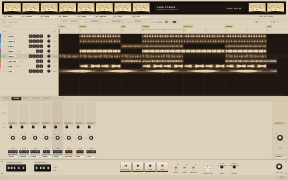
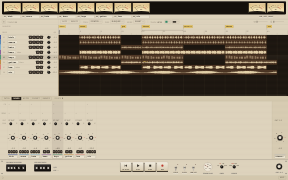
fix(daw): no names in the themes — neither the song's nor the program's
His rule, said again: a theme carries no project name and no product name. The console's plate goes (its maker,
model and the song's name); the cassette's label is left blank, ruled, and the deck has no maker's name or model, its
switches stand in the middle of its height; the score has no title, where the song is stands where a title would;
bauhaus starts its column with where the song is; the blueprint's title block holds the bar, the time, the tempo, the
metre, the key and the grid in place of the project and "drawn by"; the terminal has no name block and no song's
name, the open tab is shown inverse. Thumbnails and the guide's two pictures taken again.

diff --git a/Daw/ui/skin-poster.js b/Daw/ui/skin-poster.js
@@ -1,5 +1,6 @@
 /* ── poster: a composition of primary colours (design/themes draft 2, sheet 4: bauhaus) ──
-   Down the left a column that holds the transport as a poster would: where the song is in large figures, play a red
+   Down the left a column that holds the transport as a poster would (no name at its head: neither the song's nor the
+   program's, his rule): where the song is in large figures, play a red
    disc, stop a black square, record a red ring, the tempo a yellow disc, the metre a blue square, the cycle a yellow
    triangle, the out a ring filled as loud as the mix. At the foot a black band with the room's settings in it. A track
    its number large in its colour, its name, its buttons shapes (a square to mute, a circle to solo, a triangle to record);
@@ -22,21 +23,21 @@ const bhArc = (cx, cy, r, f) => { f = clamp(f, 0, .9999); const a = f * 2 * Math
 
 /* the column down the left (its x counted from the column's own edge: the room starts where it ends) */
 SKINS.left.poster = () => {
-  const CW = SKIN_BANDS.poster[2], p = curPos(), [bar, rest] = bhSplit(p), o = -CW
-  let s = R(0, 0, CW, H, { fill: K1 }) + R(CW - 3, 0, 3, H, { fill: BH.black })
-  s += T(20, 40, 'slur', { size: 28, w: 700 }) + T(22, 53, 'S T U D I O', { size: 7, w: 600, x: ' xml:space="preserve"' })
+  const CW = SKIN_BANDS.poster[2], p = curPos(), [bar, rest] = bhSplit(p), o = -CW, up = 40      // (up: the composition starts at the column's head)
+  const ground = R(0, 0, CW, H, { fill: K1 }) + R(CW - 3, 0, 3, H, { fill: BH.black })
+  let s = ''
   BHX.rest = 18 + tw(bar, 64, 700) + 2
   s += T(18, 132, bar, { size: 64, w: 700, x: ' id="bh-bar"' }) + T(BHX.rest, 132, rest, { size: 22, w: 600, c: BH.red, x: ' id="bh-rest"' }) + T(20, 154, clock(p), { size: 14, w: 500, x: ' id="bh-time"' }) + hit(14, 70, 170, 90, 'pos')
-  SKV.field.pos = { x: o + 18, y: 84, w: 150, h: 52 }
+  SKV.field.pos = { x: o + 18, y: 84 - up, w: 150, h: 52 }
   const play = S.playing && !S.rec
   s += Cc(42, 200, 22, { fill: BH.red }) + (play ? R(34, 190, 6, 20, { fill: BH.paper }) + R(45, 190, 6, 20, { fill: BH.paper }) : P('M35 189L35 211L53 200Z', { fill: BH.paper })) + hit(18, 176, 48, 48, 'play')
   s += R(78, 184, 32, 32, { fill: BH.black }) + R(88, 194, 12, 12, { fill: BH.paper }) + hit(74, 180, 40, 40, 'stop')
   s += (S.rec ? Cc(143, 200, 15, { fill: BH.red }) : Cc(143, 200, 13, { stroke: BH.red, sw: 4.5 })) + hit(124, 181, 38, 38, 'rec')
   s += R(18, 238, 2.5, 16, { fill: BH.black }) + P('M33 238L33 254L21 246Z', { fill: BH.black }) + T(40, 250, 'to the start', { size: 10 }) + hit(14, 234, 110, 24, 'tostart')
   s += Cc(42, 296, 22, { fill: BH.yellow }) + T(42, 301, String(Math.round(S.tempo * 100) / 100), { size: S.tempo >= 100 ? 14 : 17, w: 700, anchor: 'middle' }) + T(42, 312, 'B P M', { size: 5.5, w: 600, anchor: 'middle', x: ' xml:space="preserve"' }) + hit(18, 272, 48, 48, 'tempo')
-  SKV.field.tempo = { x: o + 14, y: 286, w: 60, h: 20 }
+  SKV.field.tempo = { x: o + 14, y: 286 - up, w: 60, h: 20 }
   s += R(78, 280, 32, 32, { fill: BH.blue }) + T(94, 300, meterName(), { size: 11, w: 600, c: BH.paper, anchor: 'middle' }) + hit(74, 276, 40, 40, 'meter')
-  SKV.field.meter = { x: o + 78, y: 280, w: 32, h: 32 }
+  SKV.field.meter = { x: o + 78, y: 280 - up, w: 32, h: 32 }
   const c = S.cycle
   s += P('M124 312L139 282L154 312Z', c.on ? { fill: BH.yellow } : { stroke: BH.yellow, sw: 3, x: ' stroke-linejoin="round"' }) + hit(120, 276, 40, 40, 'loop')
   s += T(20, 344, 'cycle', { size: 10, w: 600 }) + T(60, 344, c.on ? `bars ${Math.round(c.a + 1)} to ${Math.round(c.b)}` : 'off', { size: 10, a: .6 }) + hit(14, 332, 170, 16, 'loop')
@@ -44,13 +45,13 @@ SKINS.left.poster = () => {
   s += ring(364, !!S.click, `click ${S.click ? 'on' : 'off'}`, 'click') + ring(384, !!S.lowLat, `low latency ${S.lowLat ? 'on' : 'off'}`, 'lowlat')
   /* the out: a ring as loud as the mix, its level in the middle */
   if (H > 600) {
-    const mx = 98, my = Math.max(500, Math.min(540, H - 130))
+    const mx = 98, my = Math.max(500, Math.min(540, H - 130)) + up / 2
     BHX.donut = [mx, my]
     s += P(`M8 ${my - 110}L188 ${my + 100}`, { stroke: BH.black, sw: 2 }) + Cc(mx, my, 66, { fill: BH.blue }) + P('', { fill: BH.black, x: ' id="bh-donut"' })
     s += Cc(mx, my, 38, { fill: BH.paper }) + T(mx, my + 4, fmtDb(S.master), { size: 17, w: 700, anchor: 'middle' }) + T(mx, my + 16, 'O U T', { size: 6, w: 600, anchor: 'middle', x: ' xml:space="preserve"' }) + Cc(168, my - 88, 10, { fill: BH.red })
     s += hit(mx - 40, my - 40, 80, 80, 'master', '', 'ns-resize')
   } else BHX.donut = null
-  return G(s, `translate(${o} 0)`)
+  return G(ground + G(s, `translate(0 ${-up})`), `translate(${o} 0)`)
 }
 /* the foot: a black band, the room's settings in it */
 SKINS.foot.poster = y0 => {

diff --git a/Daw/ui/skin-cassette.js b/Daw/ui/skin-cassette.js
@@ -1,6 +1,7 @@
 /* ── cassette: a tape deck of the eighties (design/themes draft 2, sheet 2) ──
    Over the room the deck: the cassette in its window (its reels turn as the song goes, the tape passes from one to the
-   other), an LCD with seven-segment figures, six piano keys, the maker's name and its switches as pills with lights;
+   other), an LCD with seven-segment figures, six piano keys, its switches as pills with lights (no name on it: neither the
+   song's nor the program's, his rule);
    under it the stripes. At its foot the out, lit as a deck's display is. The heads at the right, each a cassette's
    spine: its colour, its number, its name typed, a row of lights, pills for its buttons. The markers a J-card; the
    cycle a stripe; the mixer a slider and a column of lights to a strip. The deck's labels are set in the room's face,
@@ -85,8 +86,7 @@ SKINS.top.cassette = () => {
   s += R(wx - 2, wy - 2, ww + 4, wh + 4, { rx: 6, fill: '#BFB197' }) + R(wx, wy, ww, wh, { rx: 5, fill: 'url(#cs-win)' })
   s += R(kx, ky, kw, kh, { rx: 4, fill: '#2A2622', stroke: '#4A423B', sw: .7 }) + R(kx + 7, ky + 5, kw - 14, kh - 22, { rx: 2.5, fill: '#F2EADB' })
   ;[CS.orange, CS.amber, CS.teal].forEach((c, i) => { s += R(kx + 7, ky + 27 + i * 3.4, kw - 14, 3, { fill: c }) })
-  const name = typeof PROJ === 'object' && PROJ.name ? PROJ.name : 'untitled'
-  s += T(kx + 13, ky + 17, fit(asGiven(name), kw - 70, 10, 700), { size: 10, w: 700, c: '#2A2420' }) + csTx(kx + kw - 13, ky + 16, 'SIDE A', { anchor: 'end', c: CS.orange, size: 6.6 })
+  s += R(kx + 13, ky + 12, kw - 70, .7, { fill: '#2A2420', fa: .25 }) + R(kx + 13, ky + 19, kw - 70, .7, { fill: '#2A2420', fa: .25 }) + csTx(kx + kw - 13, ky + 16, 'SIDE A', { anchor: 'end', c: CS.orange, size: 6.6 })      // (the label left blank, ruled)
   const hy = ky + kh - 13
   CSX.reels = [kx + 57, kx + kw - 57, hy]
   s += R(kx + 44, hy - 12, kw - 88, 22, { rx: 11, fill: '#1A1512' }) + G(csReel(kx + 57, hy, 'cs-rl') + csReel(kx + kw - 57, hy, 'cs-rr'), '', ' clip-path="url(#cs-reelwin)"') + `<clipPath id="cs-reelwin"><rect x="${kx + 44}" y="${hy - 12}" width="${kw - 88}" height="22" rx="11"/></clipPath>`
@@ -108,15 +108,14 @@ SKINS.top.cassette = () => {
     s += t === 'REC' ? Cc(gx, gy, 3, { fill: c }) : t === 'REW' ? P(`M${gx} ${gy - 4}l-6 4l6 4zM${gx + 6} ${gy - 4}l-6 4l6 4z`, { fill: c }) : t === 'PLAY' ? P(`M${gx - 3} ${gy - 4.5}l7.5 4.5l-7.5 4.5z`, { fill: c }) : t === 'F.F' ? P(`M${gx - 6} ${gy - 4}l6 4l-6 4zM${gx} ${gy - 4}l6 4l-6 4z`, { fill: c }) : t === 'STOP' ? R(gx - 3, gy - 3, 6, 6, { fill: c }) : R(gx - 4, gy - 4, 2.6, 8, { fill: c }) + R(gx + 1.4, gy - 4, 2.6, 8, { fill: c })
     s += csTx(gx, y + 50, t, { size: 5.8, c, anchor: 'middle', ls: .5, a: .85 }) + hit(x, 16, bw, 66, a)
   })
-  /* the maker's name; the switches */
+  /* the switches */
   const kEnd = bx0 + 6 * (bw + 3), rx = Math.max(kEnd + 20, W - 330)
-  if (W - kEnd > 240) s += csTx(W - 20, 34, 'SLUR STUDIO', { size: 13, c: CS.dark, ls: 2.4, anchor: 'end' }) + csTx(W - 20, 48, 'ST-8 STEREO CASSETTE DECK', { size: 6.2, anchor: 'end' })
   const pills = [['CYCLE', S.cycle.on, CS.amber, 'loop', 64], ['CLICK', !!S.click, CS.amber, 'click', 60], [toolWord(S.tool).toUpperCase(), true, CS.teal, 'toolmenu', 72], [`GRID ${S.grid}`, null, null, 'grid', 72]]
   let px = rx
-  for (const [t, on, col, a, w] of pills) { if (px + w > W - 16) break; s += csBtn(px, 66, w, 13, t, on, col, a); if (a === 'grid') SKV.field.grid = { x: px, y: 66, w, h: 13 }; px += w + 4 }
+  for (const [t, on, col, a, w] of pills) { if (px + w > W - 16) break; s += csBtn(px, 38, w, 13, t, on, col, a); if (a === 'grid') SKV.field.grid = { x: px, y: 38, w, h: 13 }; px += w + 4 }
   const nw = `NUDGE ${S.nudge}`.toUpperCase(), ow = `OUT ${fmtDb(S.master)} DB`
-  s += csTx(rx, 96, nw, { size: 6.2 }) + hit(rx - 3, 86, 90, 14, 'nudge') + csTx(rx + 100, 96, ow, { size: 6.2 }) + hit(rx + 97, 86, 90, 14, 'master', '', 'ns-resize')
-  SKV.field.nudge = { x: rx - 3, y: 86, w: 90, h: 14 }
+  s += csTx(rx, 70, nw, { size: 6.2 }) + hit(rx - 3, 60, 90, 14, 'nudge') + csTx(rx + 100, 70, ow, { size: 6.2 }) + hit(rx + 97, 60, 90, 14, 'master', '', 'ns-resize')
+  SKV.field.nudge = { x: rx - 3, y: 60, w: 90, h: 14 }
   /* the stripes */
   ;[CS.orange, CS.amber, CS.teal, CS.navy].forEach((c, i) => { s += R(0, DH + i * 3, W, 3, { fill: c }) })
   return s

diff --git a/Daw/ui/skin-blueprint.js b/Daw/ui/skin-blueprint.js
@@ -38,11 +38,10 @@ SKINS.foot.blueprint = y0 => {
   const bw = 430, bh = 92, bx0 = W - 26 - bw, by0 = y0 + 10
   s += R(bx0, by0, bw, bh, { fill: K2, fa: .6 }) + R(bx0 + .5, by0 + .5, bw - 1, bh - 1, { stroke: INK, sw: 1.2 })
   const cell = (x, y, w, h, k, v, big, a, id) => R(x + .5, y + .5, w - 1, h - 1, { stroke: INK, sw: .6, sa: .8 }) + T(x + 5, y + 9, k, { size: 5.8, a: .65 }) + T(x + 5, y + h - 6, v, { size: big ? 12 : 9, w: big ? 600 : 500, x: id ? ` id="${id}"` : '' }) + (a ? hit(x, y, w, h, a) : '')
-  const name = typeof PROJ === 'object' && PROJ.name ? PROJ.name : ''
-  s += cell(bx0, by0, 215, 30, 'project', asGiven(name.toUpperCase()), true) + cell(bx0 + 215, by0, 108, 30, 'drawn by', 'slur studio') + cell(bx0 + 323, by0, 107, 30, 'key', S.key ? asGiven(S.key.toUpperCase()) : '—', false, 'key')
-  const p = curPos()
-  s += cell(bx0, by0 + 30, 108, 30, 'bar', readout(p), true, 'pos', 'bp-bar') + cell(bx0 + 108, by0 + 30, 107, 30, 'time', clock(p), true, null, 'bp-time') + cell(bx0 + 215, by0 + 30, 108, 30, 'tempo', (+S.tempo).toFixed(2), false, 'tempo') + cell(bx0 + 323, by0 + 30, 107, 30, 'metre', meterName(), false, 'meter')
-  SKV.field.pos = { x: bx0 + 2, y: by0 + 38, w: 100, h: 20 }; SKV.field.tempo = { x: bx0 + 217, y: by0 + 38, w: 100, h: 20 }; SKV.field.key = { x: bx0 + 325, y: by0 + 8, w: 100, h: 20 }; SKV.field.meter = { x: bx0 + 323, y: by0 + 30, w: 107, h: 30 }
+  const p = curPos()                                                                 // (no name in it: neither the song's nor the program's, his rule)
+  s += cell(bx0, by0, 215, 30, 'bar', readout(p), true, 'pos', 'bp-bar') + cell(bx0 + 215, by0, 215, 30, 'time', clock(p), true, null, 'bp-time')
+  s += cell(bx0, by0 + 30, 108, 30, 'tempo', (+S.tempo).toFixed(2), false, 'tempo') + cell(bx0 + 108, by0 + 30, 107, 30, 'metre', meterName(), false, 'meter') + cell(bx0 + 215, by0 + 30, 108, 30, 'key', S.key ? asGiven(S.key.toUpperCase()) : '—', false, 'key') + cell(bx0 + 323, by0 + 30, 107, 30, 'grid', S.grid, false, 'grid')
+  SKV.field.pos = { x: bx0 + 2, y: by0 + 8, w: 200, h: 20 }; SKV.field.tempo = { x: bx0 + 2, y: by0 + 38, w: 100, h: 20 }; SKV.field.meter = { x: bx0 + 108, y: by0 + 30, w: 107, h: 30 }; SKV.field.key = { x: bx0 + 217, y: by0 + 38, w: 100, h: 20 }; SKV.field.grid = { x: bx0 + 323, y: by0 + 30, w: 107, h: 30 }
   s += R(bx0 + .5, by0 + 60.5, bw - 1, 31, { stroke: INK, sw: .6, sa: .8 }) + T(bx0 + 5, by0 + 69, 'transport', { size: 5.8, a: .65 })
   const tr = [['tostart', '⏮'], ['play', '▶'], ['stop', '■'], ['rec', '●']]
   tr.forEach(([a, g], k) => { const x = bx0 + 96 + k * 32, y = by0 + 77, on = a === 'play' ? S.playing && !S.rec : a === 'rec' ? !!S.rec : false; s += Cc(x, y, 9.5, on ? { fill: INK } : { stroke: INK, sw: .8 }) + `<text x="${x + (a === 'play' ? 1 : 0)}" y="${y + 3.2}" text-anchor="middle" font-size="8.5" fill="${on ? K1 : a === 'rec' ? BPR.red : INK}">${g}</text>` + hit(x - 12, y - 12, 24, 24, a) })
@@ -51,7 +50,7 @@ SKINS.foot.blueprint = y0 => {
   /* the rest of the drawing's notes, at the left */
   const note = (x, k, v, a) => { const t = `${k} ${v}`; SKV.field[a] = { x: x - 4, y: y0 + 22, w: tw(t, 8) + 8, h: 18 }; return T(x, y0 + 34, t, { size: 8, x: ' xml:space="preserve"' }) + (a ? hit(x - 4, y0 + 22, tw(t, 8) + 8, 18, a) : '') }
   let nx = 30
-  for (const [k, v, a] of [['grid', S.grid, 'grid'], ['nudge', S.nudge, 'nudge'], ['out', fmtDb(S.master) + ' db', 'master']]) { s += note(nx, k, v, a); nx += tw(`${k} ${v}`, 8) + 26 }
+  for (const [k, v, a] of [['nudge', S.nudge, 'nudge'], ['out', fmtDb(S.master) + ' db', 'master']]) { s += note(nx, k, v, a); nx += tw(`${k} ${v}`, 8) + 26 }
   s += T(30, y0 + 58, 'notes', { size: 6, a: .6 }) + T(30, y0 + 72, '1.  all regions shown hatched in section.', { size: 7.5, a: .7 }) + T(30, y0 + 86, '2.  the centre line in red is where the song is.', { size: 7.5, a: .7 })
   return s
 }

diff --git a/Daw/ui/skin-terminal.js b/Daw/ui/skin-terminal.js
@@ -1,5 +1,6 @@
 /* ── terminal: the room as a terminal on a screen (design/themes draft 2, sheet 6) ──
-   Over the room the screen's first lines: its name inverse and its tabs, where the song is in large figures, the
+   Over the room the screen's first lines: its tabs (the open one inverse; no name: neither the song's nor the
+   program's, his rule), where the song is in large figures, the
    transport as words in brackets, its switches as words, the out in two rows of blocks. At its foot a status line,
    inverse. The tracks and the arrangement each in a frame with its title set into the line; a track a line of text, its
    level in blocks; a marker ├ and its name; the cycle in brackets, doubled; the playhead a ▼ and a line; the sound in
@@ -31,16 +32,14 @@ const tmSig = () => [W, H, X0, X1, RX, MK_Y, BY, VIEW.p > .5, S.panel.tab, S.pan
 SKINS.top.terminal = () => {
   const h = SKIN_BANDS.terminal[0], cw = tmCw(11), x0 = 22
   let s = R(0, 0, W, h, { fill: K1 })
-  /* the first line: the name, the tabs; at the right the song's name, tempo, metre, key */
-  s += tmInv(x0, 22, ' slur studio ')
-  let x = x0 + tw(' slur studio ', 11) + cw * 3
+  /* the first line: the tabs; at the right the tempo, metre, key */
+  let x = x0
   const now = !S.panel.on ? 'arrange' : S.panel.tab
   const tabs = [['arrange', 'arrange'], ['mixer', 'mixer'], ['patch', 'patch']].concat(typeof pRoll === 'function' ? [['notes', 'tab-notes']] : [], typeof pPrompt === 'function' ? [['prompt', 'tab-prompt']] : [])
-  tabs.forEach(([t, a], k) => { const w = `${k + 1}:${t}${now === t ? '*' : ''}`; s += tmT(x, 22, w, { a: now === t ? 1 : .75 }) + hit(x - 4, 8, tw(w, 11) + 8, 20, a); x += tw(w, 11) + cw * 2 })
+  tabs.forEach(([t, a], k) => { const w = ` ${k + 1}:${t} `; s += (now === t ? tmInv(x, 22, w) : tmT(x, 22, w, { a: .75 })) + hit(x - 4, 8, tw(w, 11) + 8, 20, a); x += tw(w, 11) + cw })
   let rx = W - 22
   const right = (w, a, field, al = .8) => { const ww = tw(w, 11); s += tmT(rx - ww, 22, w, { a: al }); if (a) { s += hit(rx - ww - 4, 8, ww + 8, 20, a); SKV.field[field || a] = { x: rx - ww - 4, y: 8, w: Math.max(60, ww + 8), h: 20 } } rx -= ww + cw * 3 }
   right(S.key || '—', 'key'); right(meterName(), 'meter'); right(`${(+S.tempo).toFixed(2)} bpm`, 'tempo')
-  if (typeof PROJ === 'object' && PROJ.name) right(fit(asGiven(PROJ.name), 240, 11), null, null, .6)
   /* where the song is, in large figures */
   const p = curPos(), c30 = tmCw(30), c20 = tmCw(20)
   s += tmT(x0, 66, readout(p), { size: 30, w: 500, x: ' xml:space="preserve" id="tm-pos"' }) + hit(x0 - 4, 38, c30 * 7.5, 34, 'pos')

diff --git a/Daw/ui/skin-score.js b/Daw/ui/skin-score.js
@@ -1,5 +1,6 @@
 /* ── score: the song as an engraved page (design/themes draft 2, sheet 3) ──
-   Over the room, its title and the tempo as a metronome mark, where the playhead is as a bar number; at its foot the
+   Over the room the tempo as a metronome mark and, in the middle where a title would stand, where the playhead is as a
+   bar number (no name: neither the song's nor the program's, his rule); at its foot the
    transport as a line of type (circles for its keys, its words in italic). Each track a staff (the drums one line), its
    name in italic as a full score names its parts, its level as a dynamic; a region a phrase under a slur; the markers
    rehearsal marks; the cycle a pair of repeat barlines; the playhead a red pencil line. */
@@ -12,8 +13,6 @@ const scWordsOfMeter = () => S.meter[0] === 4 && S.meter[1] === 4 ? 'four in a b
 
 SKINS.top.score = () => {
   let s = R(0, 0, W, SKIN_BANDS.score[0], { fill: K1 })
-  const title = typeof PROJ === 'object' && PROJ.name ? PROJ.name : ''
-  s += T(W / 2, 40, asGiven(title), { size: 24, it: true, anchor: 'middle' }) + T(W / 2, 58, 'slur studio', { size: 9.5, w: 500, a: .6, anchor: 'middle' })
   /* the metronome mark: pressed, the tempo is typed */
   s += scNote(30, 46, .62) + T(40, 49, `= ${+(+S.tempo).toFixed(2)}`, { size: 13, w: 500 }) + hit(22, 28, 90, 26, 'tempo')
   SKV.field.tempo = { x: 52, y: 34, w: 60, h: 20 }
@@ -22,8 +21,8 @@ SKINS.top.score = () => {
   s += hit(150, 56, 60, 16, 'key'); SKV.field.key = { x: 150, y: 54, w: 60, h: 20 }
   /* where the playhead is: a bar, and the time */
   const p = curPos()
-  s += T(W - 30, 40, `bar ${Math.floor(p + 1e-6) + 1}`, { size: 15, it: true, anchor: 'end', x: ' id="sc-bar"' }) + T(W - 30, 58, scClock(p), { size: 10.5, a: .7, anchor: 'end', x: ' id="sc-time"' }) + hit(W - 130, 24, 104, 40, 'pos')
-  SKV.field.pos = { x: W - 130, y: 28, w: 100, h: 20 }
+  s += T(W / 2, 42, `bar ${Math.floor(p + 1e-6) + 1}`, { size: 22, it: true, x: ' text-anchor="middle" id="sc-bar"' }) + T(W / 2, 61, scClock(p), { size: 10.5, a: .7, x: ' text-anchor="middle" id="sc-time"' }) + hit(W / 2 - 80, 18, 160, 50, 'pos')
+  SKV.field.pos = { x: W / 2 - 50, y: 24, w: 100, h: 24 }
   return s + hline(0, W, SKIN_BANDS.score[0] - .5, .12)
 }
 const scClock = p => { const sec = p * SPB(), m = Math.floor(sec / 60), ss = Math.floor(sec % 60), t = Math.floor(sec * 10 % 10); return `${m}′ ${String(ss).padStart(2, '0')}″ ${t}` }

diff --git a/Daw/ui/skins.js b/Daw/ui/skins.js
@@ -149,8 +149,6 @@ function skinBridge () {
   })
   const mx = W - 20 - mixW
   s += skVu(mx, 15, mw, mh, 'vu-L') + skVu(mx + mw + gap, 15, mw, mh, 'vu-R') + skEng(mx + mixW / 2, 87, 'mix   left   right', { anchor: 'middle', x: ' xml:space="preserve"' })
-  const plateX = 20 + Math.min(fits, list.length) * (mw + gap) + 16, plateW = mx - 24 - plateX
-  if (plateW > 160) s += R(plateX, 20, plateW, 40, { rx: 2, fill: '#1A140F' }) + `<text x="${plateX + 14}" y="38" font-family="${FONT}" font-size="10" font-weight="600" letter-spacing="3.2" fill="${lkC('win.k1', K1)}">SLUR STUDIO</text>` + `<text x="${plateX + 14}" y="52" font-family="${FONT}" font-size="7" font-weight="500" letter-spacing="2.2" fill="${SK.amber}">CONSOLE 8   SERIES II</text>` + (typeof PROJ === 'object' && PROJ.name ? T(plateX + plateW - 14, 46, fit(asGiven(PROJ.name), plateW - 150, 10), { size: 10, c: lkC('win.k1', K1), a: .8, anchor: 'end' }) : '')
   return s + hline(0, W, BRIDGE_H - .5, .25)
 }
 
